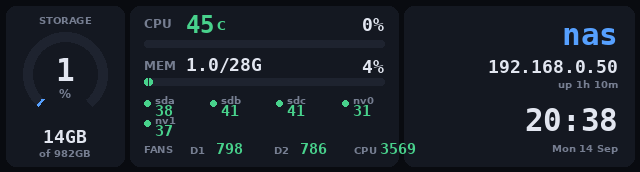
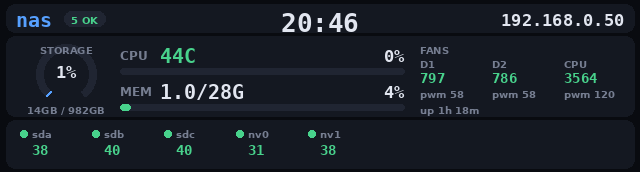
feat: header/stats/drive-health layout, scaling to a full chassis
Restructures the panel into a header (hostname, drive-health badge, clock,
IP), a stats band (storage arc, CPU, memory, fans, uptime), and a footer
strip with one cell per drive. Removing the fixed right-hand column stops
long fan readings and long hostnames from colliding with the IP, which was
the original problem.

Drives are enumerated at runtime from /dev/sd[a-z] and /dev/nvme*n*, and
the footer cell width is derived from how many were found, so an 8-bay
chassis with two NVMe drives renders without any change. Verified against
a synthetic ten-drive set including warning and failing states.

Each drive now reports SMART health, not just temperature: amber for
non-zero reallocated, pending or uncorrectable sector counts (and for NVMe
a critical warning or media-integrity errors), red for an overall-health
FAILED, grey when no data is available. The header badge rolls that up so
a failing disk is visible without reading the strip.

smartctl runs with -n standby so drawing the panel never spins up a
sleeping disk; a sleeping drive keeps its last reading rather than
blanking. Poll interval raised to roughly two minutes to match.

diff --git a/front-lcd-control.md b/front-lcd-control.md
@@ -237,19 +237,42 @@ STORAGE  nv1 38                        |   20:33:00
 
 ![Front panel](docs-lcd-panel.png)
 
-A capacity arc on the left, live CPU and memory meters in the middle, every drive
-temperature below them, and identity on the right. Storage is summed across all mounted
-real filesystems (`ext4`, `xfs`, `btrfs`, `zfs`, …), deduplicated by filesystem id, so
-a pool shows up automatically once you create one.
+Three bands:
 
-Values come from sysfs, `/proc`, and `smartctl`; temperatures shift green → amber → red
-as they rise, and the capacity arc turns amber past 75 % and red past 90 %. Refresh
-interval is `INTERVAL` at the top of the script.
+| Band | Contents |
+|---|---|
+| Header | Hostname, a health badge summarising every drive, the clock, and the IP |
+| Body | Storage arc, CPU temperature and load, memory, fan tachometers, uptime |
+| Footer | One cell per drive: SMART health dot, name, temperature |
 
-The drive row is **adaptive**: every SATA device found by `smartctl` plus every NVMe
-with a `hwmon` temperature is listed, six per row, wrapping to a second row — so a
-fully populated 8-bay chassis with two NVMe drives still fits. SATA drives use a
-47/55 °C warn/hot threshold, NVMe 60/70 °C, since they run hotter by design.
+Storage is summed across all mounted real filesystems (`ext4`, `xfs`, `btrfs`, `zfs`, …)
+and deduplicated by filesystem id, so a pool appears on the gauge as soon as it exists,
+with no configuration. The arc turns amber past 75 % and red past 90 %.
+
+### Drive discovery scales to a full chassis
+
+Drives are enumerated at runtime from `/dev/sd[a-z]` and `/dev/nvme*n*` — never a fixed
+list — and the footer cell width is computed from how many were found. A fully populated
+8-bay chassis plus two NVMe drives fits without changes:
+
+![Ten drives](docs-lcd-panel-10drives.png)
+
+### Health, not just temperature
+
+Each drive gets a dot coloured from its SMART state rather than its temperature alone:
+
+| Colour | Meaning |
+|---|---|
+| Green | Overall-health `PASSED`, no degradation attributes set |
+| Amber | Non-zero `Reallocated_Sector_Ct` (5), `Current_Pending_Sector` (197) or `Offline_Uncorrectable` (198); for NVMe a non-zero `Critical Warning` or media-integrity error count |
+| Red | Overall-health `FAILED` |
+| Grey | No SMART data — device asleep or unsupported |
+
+The temperature underneath is coloured separately, with NVMe on a higher threshold
+(60/72 °C) than spinning disks (47/55 °C) because they run hotter by design.
+
+`smartctl` is polled with `-n standby`, so sleeping disks are **not** spun up just to
+draw a panel. A drive that is asleep keeps its last known reading instead of blanking.
 
 `smartctl` is slow enough to stall a 5-second redraw, so it is polled once every
 `SMART_EVERY` ticks and cached in between. sysfs values still update every frame.
